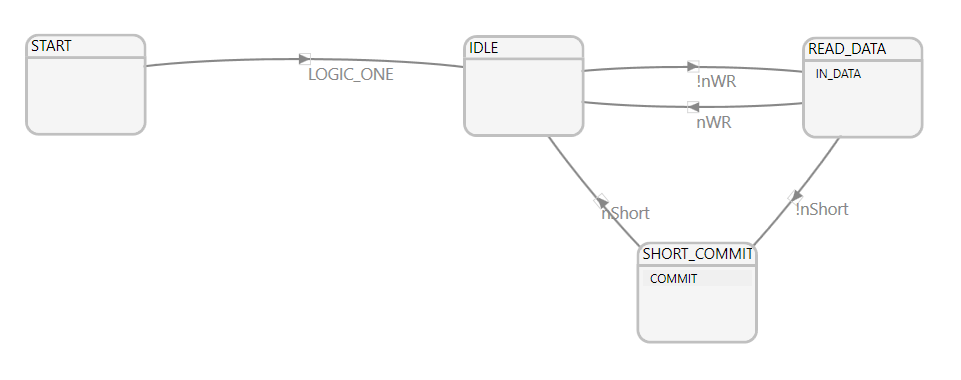
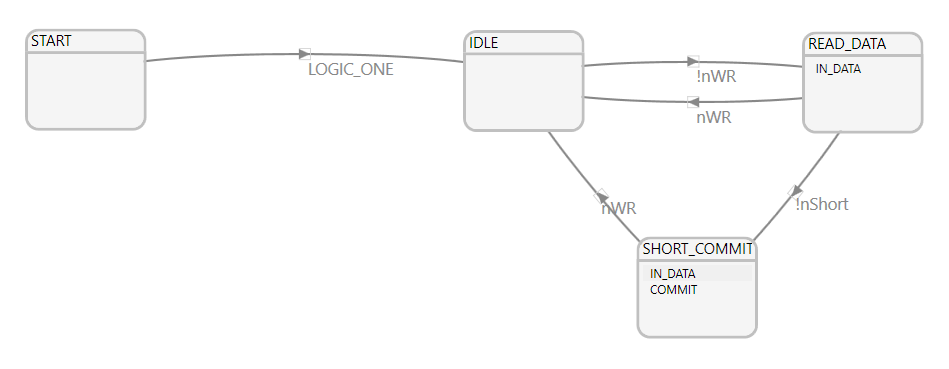
GPIF update again

Changed region(s): [[0.0306, 0.0596, 0.9779, 0.4472], [0.6112, 0.4472, 0.9168, 0.9241], [0.5501, 0.3279, 0.6112, 0.477]]

diff --git a/firmware/FX3-Firmware/domesdayDuplicator/domesdayDuplicatorGpif.h b/firmware/FX3-Firmware/domesdayDuplicator/domesdayDuplicatorGpif.h
@@ -1,6 +1,6 @@
 /*
  * Project Name: DomesdayDuplicator.cyfx
- * Time : 11/25/2017 13:46:59
+ * Time : 11/25/2017 14:40:46
  * Device Type: FX3
  * Project Type: GPIF2
  *
@@ -53,8 +53,8 @@ uint16_t CyFxGpifTransition[]  = {
  */
 CyU3PGpifWaveData CyFxGpifWavedata[]  = {
     {{0x1E738001,0x00000100,0x80000000},{0x00000000,0x00000000,0x00000000}},
-    {{0x2E70C002,0x20000006,0x80000000},{0x00000000,0x00000000,0x00000000}},
-    {{0x1E738001,0x00000100,0x80000000},{0x2E738603,0x00000000,0x80100000}}
+    {{0x2E70C002,0x20010006,0x80000000},{0x00000000,0x00000000,0x00000000}},
+    {{0x1E738001,0x00000100,0x80000000},{0x2E738003,0x20000000,0x80100000}}
 };
 
 /* Summary
